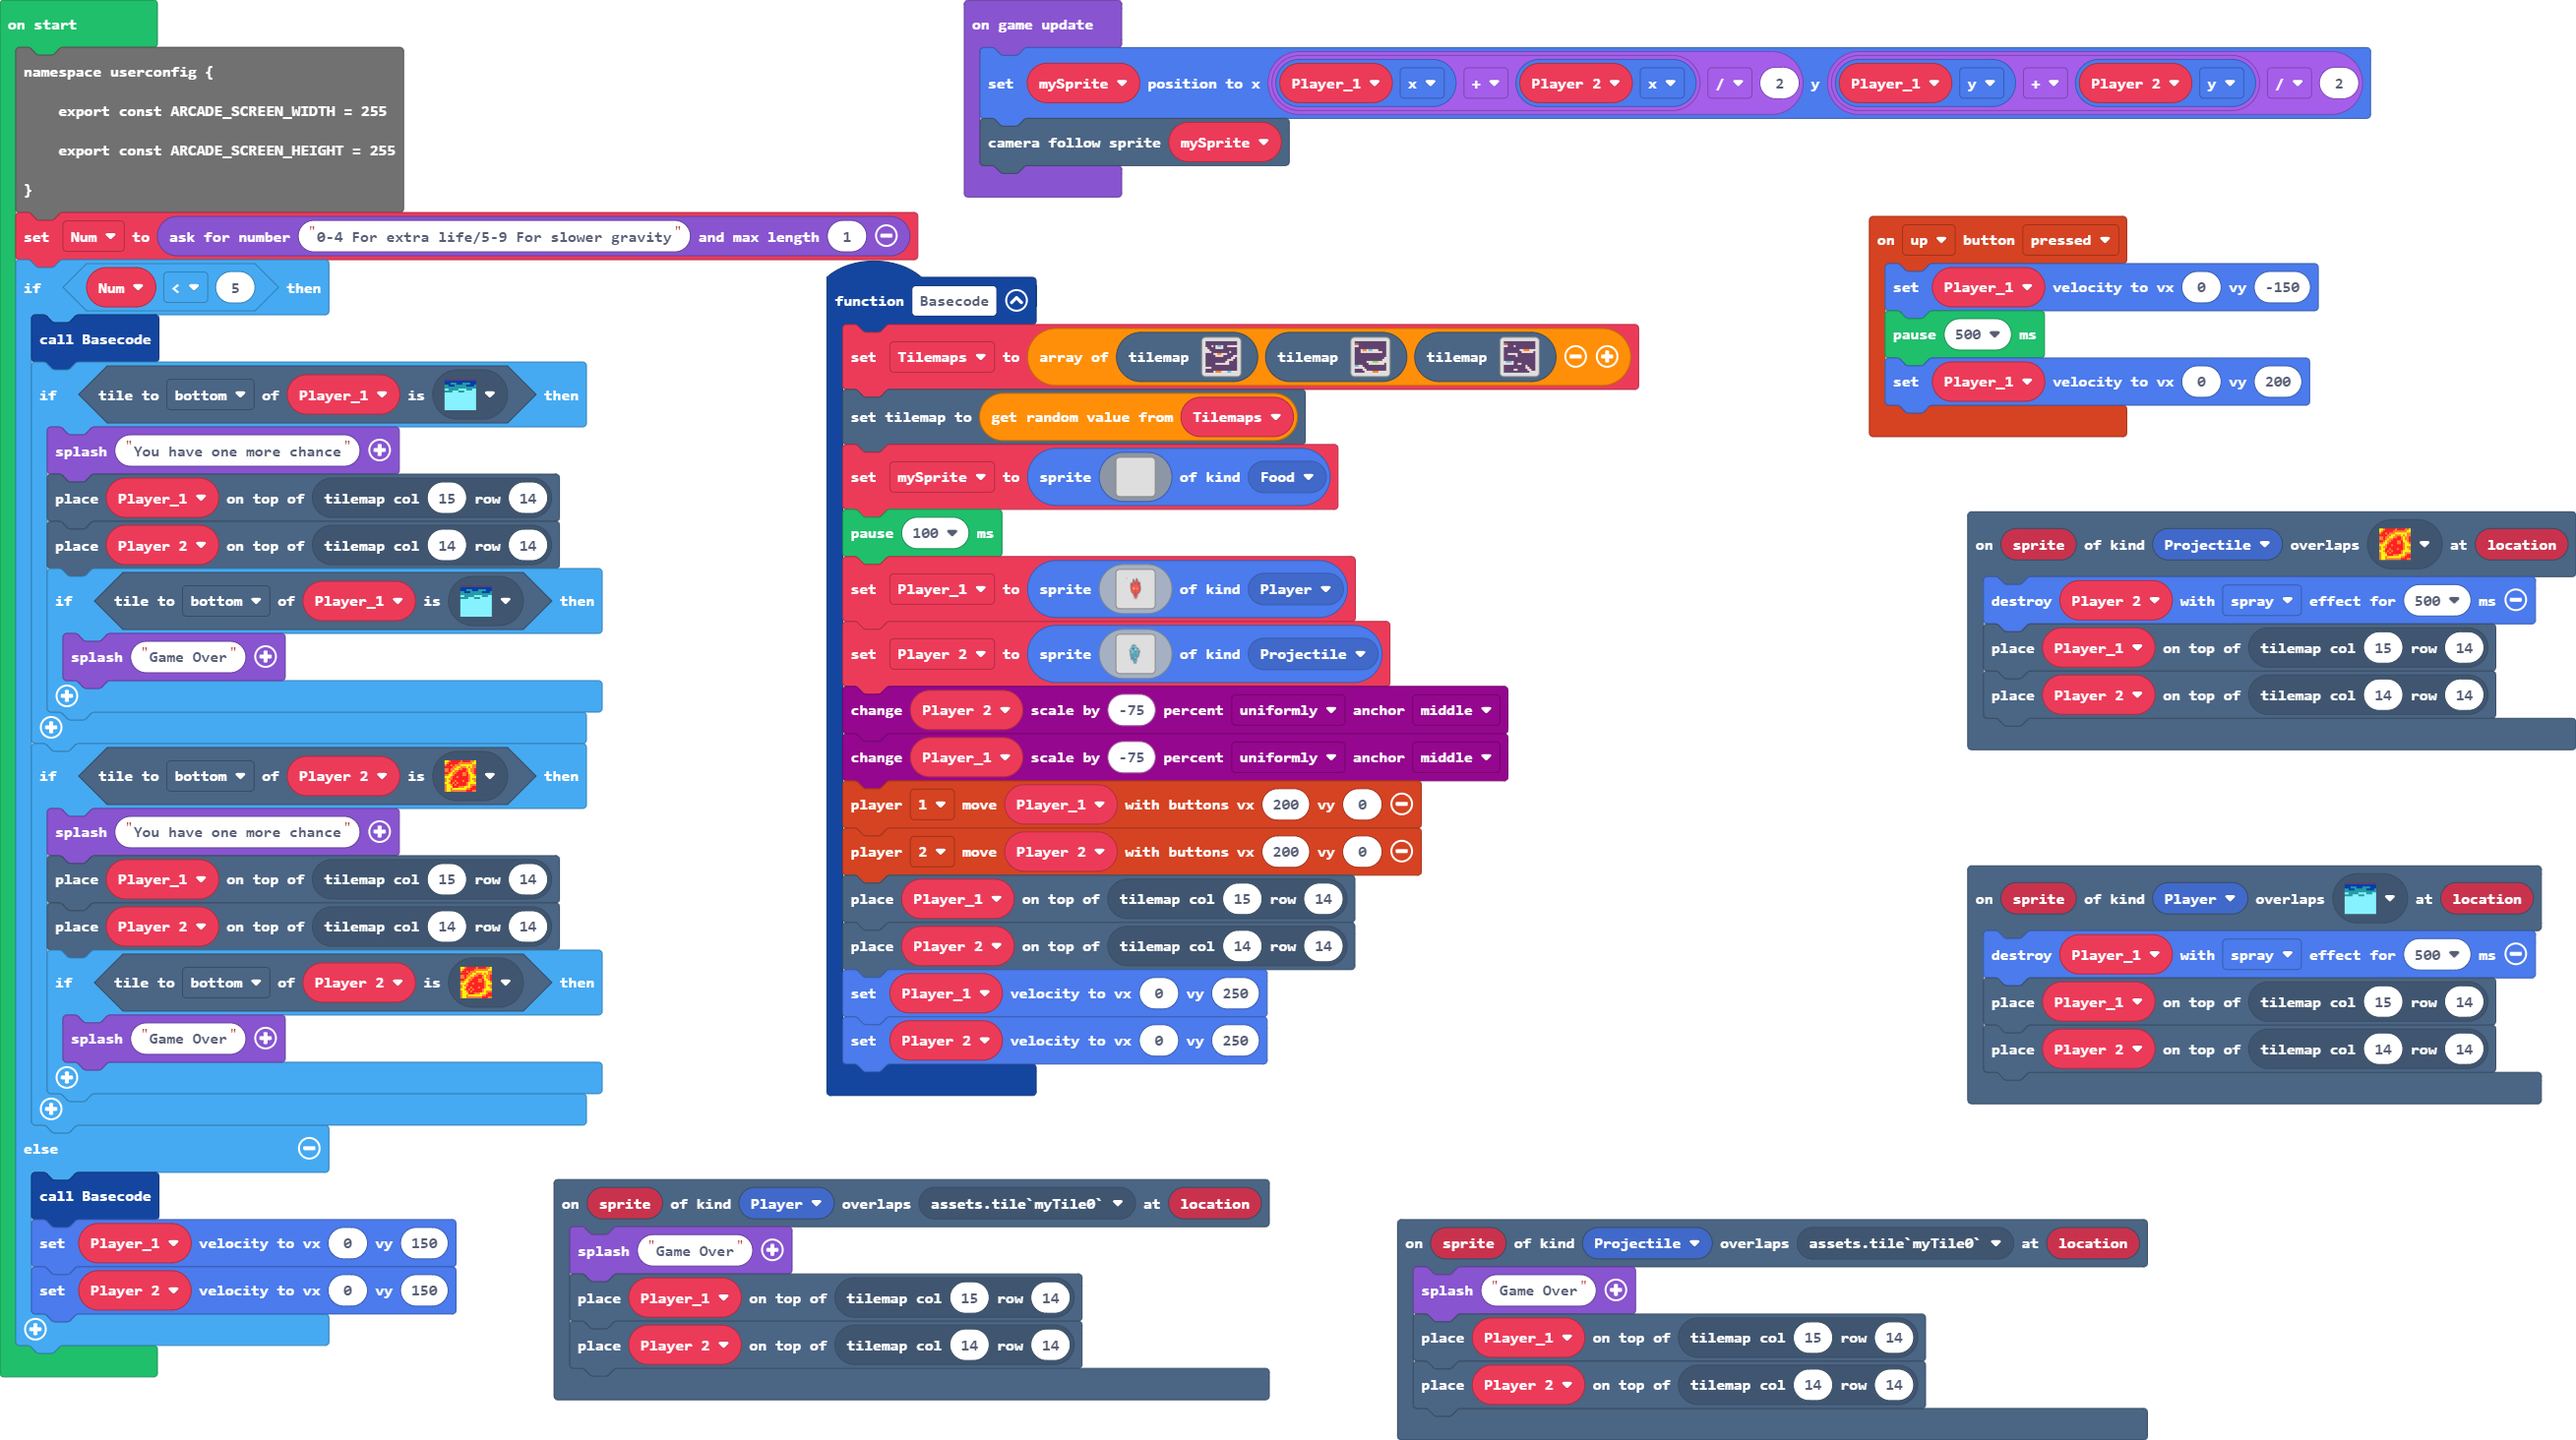
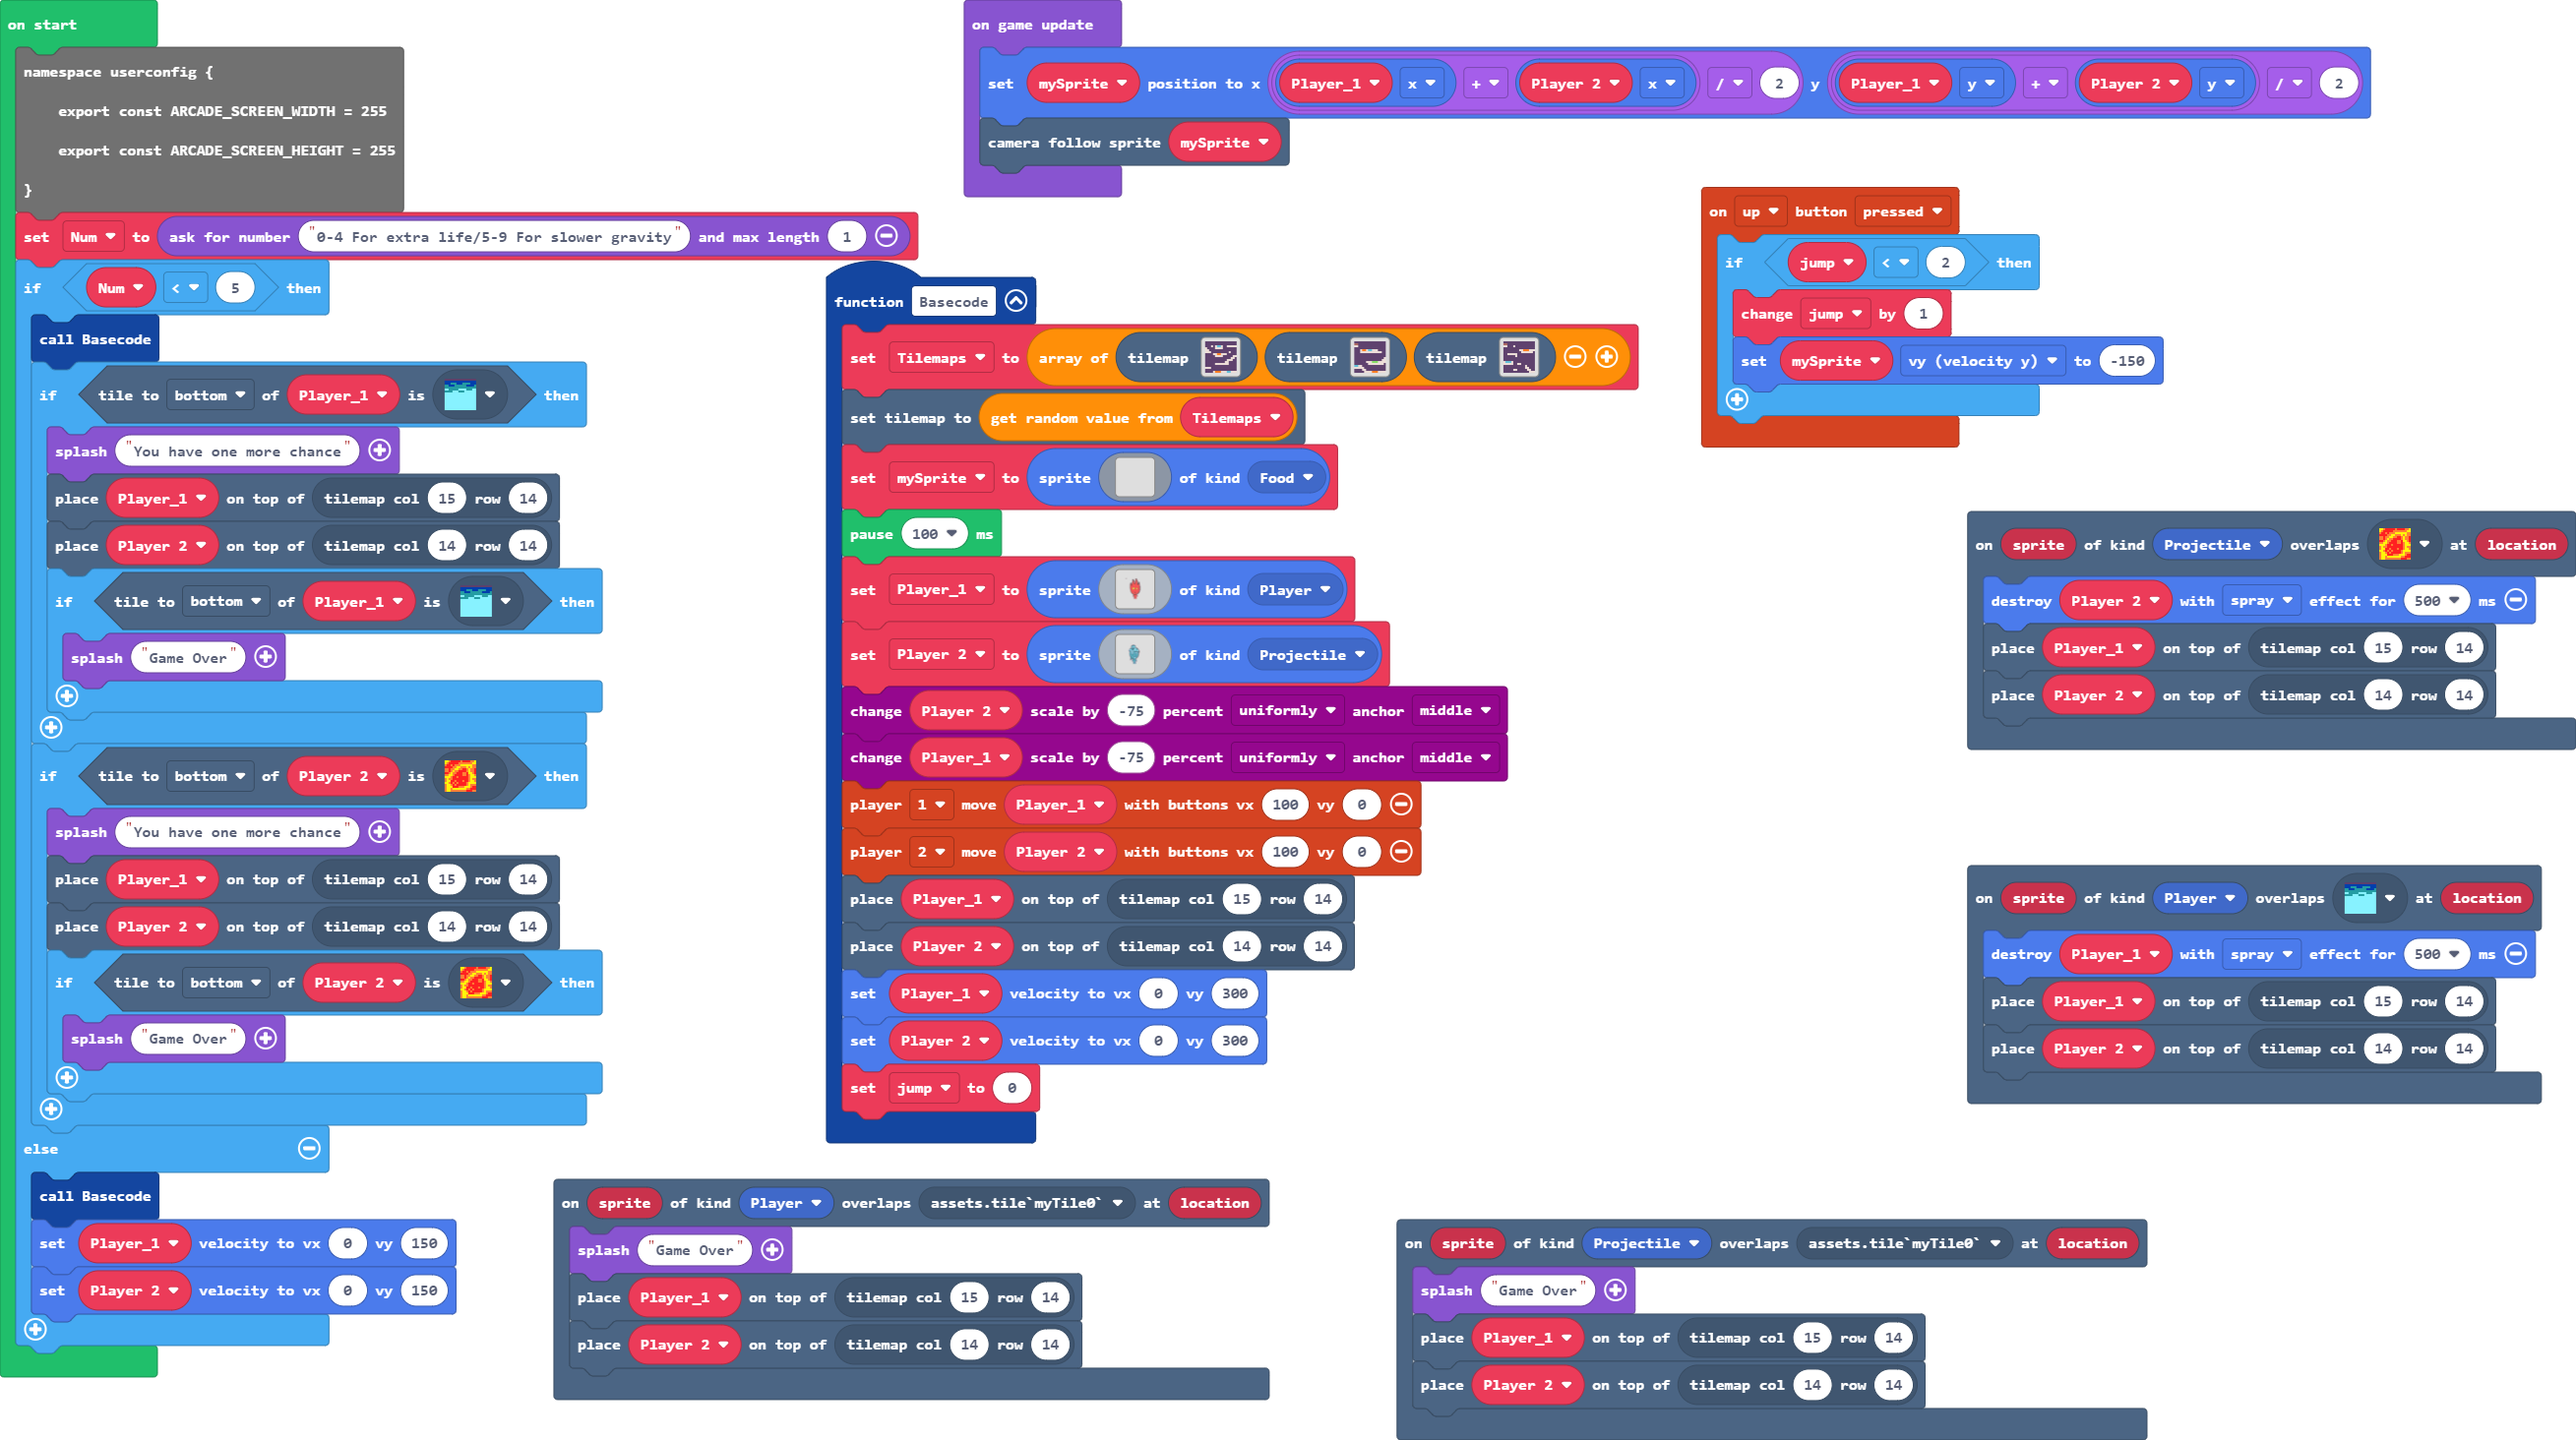
Update main.blocks, main.ts

diff --git a/main.ts b/main.ts
@@ -4,9 +4,10 @@ scene.onOverlapTile(SpriteKind.Player, assets.tile`myTile0`, function (sprite, l
     tiles.placeOnTile(Player_2, tiles.getTileLocation(14, 14))
 })
 controller.up.onEvent(ControllerButtonEvent.Pressed, function () {
-    Player_1.setVelocity(0, -150)
-    pause(500)
-    Player_1.setVelocity(0, 200)
+    if (jump < 2) {
+        jump += 1
+        mySprite.vy = -150
+    }
 })
 scene.onOverlapTile(SpriteKind.Projectile, sprites.dungeon.hazardLava0, function (sprite, location) {
     sprites.destroy(Player_2, effects.spray, 500)
@@ -49,15 +50,17 @@ function Basecode () {
     Player_2 = sprites.create(assets.image`fire boy water girl0`, SpriteKind.Projectile)
     scaling.scaleByPercent(Player_2, -75, ScaleDirection.Uniformly, ScaleAnchor.Middle)
     scaling.scaleByPercent(Player_1, -75, ScaleDirection.Uniformly, ScaleAnchor.Middle)
-    controller.player1.moveSprite(Player_1, 200, 0)
-    controller.player2.moveSprite(Player_2, 200, 0)
+    controller.player1.moveSprite(Player_1, 100, 0)
+    controller.player2.moveSprite(Player_2, 100, 0)
     tiles.placeOnTile(Player_1, tiles.getTileLocation(15, 14))
     tiles.placeOnTile(Player_2, tiles.getTileLocation(14, 14))
-    Player_1.setVelocity(0, 250)
-    Player_2.setVelocity(0, 250)
+    Player_1.setVelocity(0, 300)
+    Player_2.setVelocity(0, 300)
+    jump = 0
 }
-let mySprite: Sprite = null
 let Tilemaps: tiles.TileMapData[] = []
+let mySprite: Sprite = null
+let jump = 0
 let Player_2: Sprite = null
 let Player_1: Sprite = null
 namespace userconfig {
